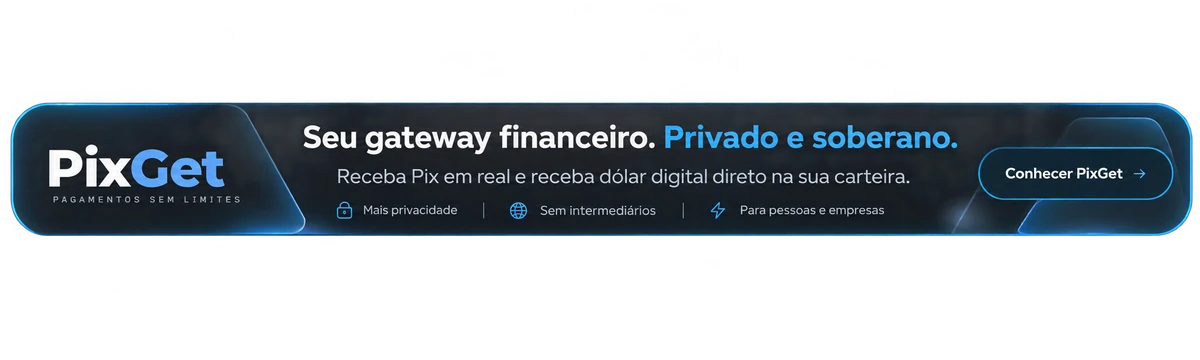
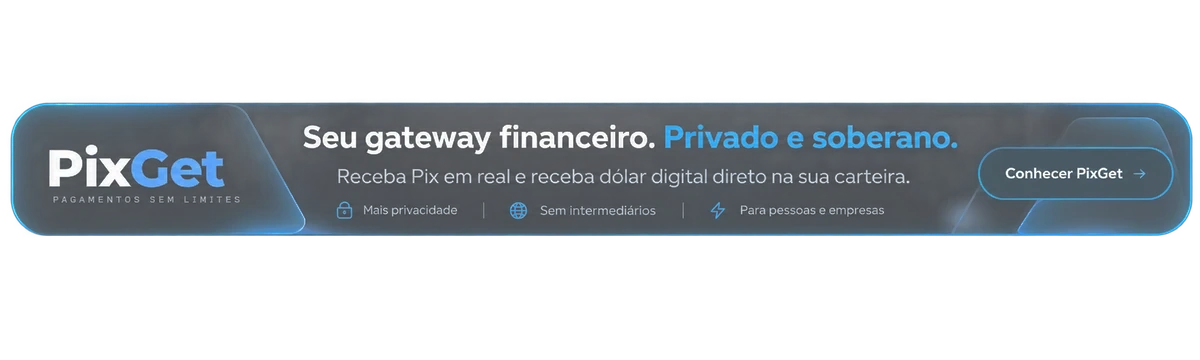
feat(ui): botoes de controle minimalistas em SVG, remove demo, lower-third encostado na base com transparencia fumê

diff --git a/webplayer/design/player.css b/webplayer/design/player.css
@@ -7,6 +7,8 @@
 header.topbar{height:var(--header);flex-shrink:0;display:flex;align-items:center;justify-content:space-between;gap:16px;padding:0 32px;border-bottom:1px solid var(--border);background:#080a09ed;position:sticky;top:0;z-index:50;backdrop-filter:blur(16px)}.brand{display:flex;align-items:center;gap:12px;font-size:23px;letter-spacing:1.2px;font-weight:600;white-space:nowrap}.brand b{font-weight:400;font-size:10px;letter-spacing:2px;color:var(--muted);display:block;line-height:1}.brand img{object-fit:contain}.status-pill{font-size:11px;padding:7px 12px;border:1px solid var(--border);border-radius:30px;color:var(--muted);white-space:nowrap}.status-pill.live{color:var(--green);border-color:#b7ff3c38;background:#b7ff3c08}.status-pill.err{color:var(--danger);border-color:#ff6b6b50}
 main{flex:1;display:flex;min-height:0}.stage{flex:1;min-width:0;padding:32px;display:flex;flex-direction:column;gap:24px}.player-wrap{position:relative;width:100%;aspect-ratio:16/9;background:#000;overflow:hidden;border:1px solid #ffffff1c;border-radius:18px;box-shadow:0 24px 80px #0008}.player-wrap:fullscreen{border:0;border-radius:0;aspect-ratio:auto}video{width:100%;height:100%;display:block;background:#000}.overlay{position:absolute;inset:0;display:flex;align-items:center;justify-content:center;flex-direction:column;gap:14px;padding:24px;text-align:center;background:radial-gradient(ellipse at center,#182210c9,#050607ef 65%)}.overlay.hidden{display:none}.overlay p{max-width:340px;color:var(--muted);font-size:13px}.overlay .big{font:600 28px/1.1 Barlow,sans-serif;color:var(--text)}.spinner{height:48px;width:48px;border:2px solid #b7ff3c1a;border-top-color:var(--green);border-radius:50%;animation:spin 1.8s linear infinite;margin-bottom:8px}@keyframes spin{to{transform:rotate(360deg)}}
 .meta-row{display:flex;justify-content:space-between;align-items:center;gap:20px;flex-wrap:wrap}.now-playing{min-width:0}.now-playing span{display:block;font-size:12px;color:var(--muted);overflow-wrap:anywhere}#npChannel{font:600 28px/1.2 Barlow,sans-serif;color:var(--text);margin-bottom:6px}.controls-row{display:flex;gap:8px;flex-wrap:wrap}.icon-btn{display:inline-flex;align-items:center;justify-content:center;gap:8px;min-height:44px;border:1px solid var(--border);border-radius:10px;background:#ffffff04;padding:10px 15px;font-size:12px;font-weight:600;color:var(--text)}.icon-btn:hover{background:#b7ff3c0c;border-color:#b7ff3c50;color:var(--green)}
+.icon-only-btn{width:44px;min-width:44px;height:44px;padding:0!important;border-radius:10px;background:#111416;border:1px solid rgba(255,255,255,.1);color:#a2afb8;transition:all .2s ease}
+.icon-only-btn:hover{background:rgba(0,229,255,.1);border-color:rgba(0,229,255,.45);color:#00E5FF;transform:translateY(-1px)}
 aside.sidebar{width:340px;flex-shrink:0;display:flex;flex-direction:column;min-height:0;background:#0b0e0e;border-left:1px solid var(--border);transition:margin-right .25s ease,width .25s ease}
 aside.sidebar.collapsed{margin-right:-340px;display:none}.list-kicker,.login-kicker,.scene-kicker,.scene-foot{font-size:10px;letter-spacing:2px;color:var(--muted)}.side-head h2{font:600 29px/1.2 Barlow,sans-serif;margin:8px 0 22px}.side-search,.cat-select{width:100%;min-height:46px;border:1px solid var(--border);border-radius:10px;padding:11px 13px;background:#131718;color:var(--text);font-size:14px}.side-search::placeholder{color:#939d95}.cat-select{margin-top:10px;font-size:13px}.list{flex:1;overflow-y:auto;padding:10px;overscroll-behavior:contain}.chan{display:flex;align-items:center;gap:13px;padding:12px;min-height:64px;border:1px solid transparent;border-radius:12px;cursor:pointer;color:var(--text);font-size:13px;margin-bottom:3px}.chan:hover{background:#ffffff05}.chan.active{background:#b7ff3c0b;border-color:#b7ff3c35;color:var(--green)}.chan .logo{width:38px;height:38px;object-fit:contain;flex-shrink:0;border-radius:8px;background:#24292a;padding:4px}.chan .name{flex:1;min-width:0;overflow:hidden;text-overflow:ellipsis;white-space:nowrap}.empty-hint{padding:35px 18px;text-align:center;line-height:1.7;color:var(--muted);font-size:13px}
 #loginGate{position:fixed;inset:0;z-index:100;display:grid;grid-template-columns:minmax(0,1.2fr) minmax(390px,1fr);align-items:center;background:var(--bg);overflow-y:auto}#loginGate.hidden{display:none}.login-scene{align-self:stretch;min-height:100svh;display:flex;flex-direction:column;justify-content:space-between;padding:48px 56px;position:relative;isolation:isolate;background:linear-gradient(0deg,#050607 0%,#05060760 50%,#0506079c 100%),url('./stadium.webp') center/cover;border-right:1px solid var(--border)}.scene-copy{padding:100px 0 70px}.scene-copy>span{color:var(--green);font-size:11px;letter-spacing:2px}.scene-copy h2{font:600 clamp(62px,7vw,110px)/.94 Barlow,Impact,sans-serif;letter-spacing:-1px;margin:22px 0 26px}.scene-copy p{max-width:290px;color:#c3cbc2;line-height:1.7}.scene-foot{font-size:9px}.login-card{width:100%;max-width:460px;margin:auto;padding:48px 42px}.login-mark{display:block;object-fit:contain;margin-bottom:35px}.login-kicker{color:var(--green)}.login-card h1{font:600 48px/1.1 Barlow,sans-serif;letter-spacing:-.5px;margin:12px 0}.login-card .sub{font-size:12px;color:var(--muted);margin-bottom:36px}.field{margin-bottom:20px}.field label{font-size:12px;color:#c3cbc2}.field input{width:100%;min-height:54px;margin-top:8px;border:1px solid #ffffff22;border-radius:10px;background:#121617;color:var(--text);padding:14px 16px;font-size:16px}.field input::placeholder{color:#717c74}.field input:focus{border-color:#b7ff3c88}
@@ -20,12 +22,12 @@ aside.sidebar.collapsed{margin-right:-340px;display:none}.list-kicker,.login-kic
 /* ================= FORMATOS DE ANÚNCIOS (NEXUS ADS) ================= */
 
 /* Formato 1: Lower-Third Flutuante Transitório */
-.ad-lower-third{position:absolute;bottom:24px;left:50%;transform:translateX(-50%) translateY(40px);opacity:0;pointer-events:none;z-index:25;width:92%;max-width:820px;background:transparent;border:none;padding:0;display:flex;align-items:center;justify-content:center;transition:transform .45s cubic-bezier(.16,1,.3,1),opacity .4s ease}
+.ad-lower-third{position:absolute;bottom:8px;left:50%;transform:translateX(-50%) translateY(25px);opacity:0;pointer-events:none;z-index:25;width:88%;max-width:680px;background:transparent;border:none;padding:0;display:flex;align-items:center;justify-content:center;backdrop-filter:blur(8px);-webkit-backdrop-filter:blur(8px);transition:transform .4s cubic-bezier(.16,1,.3,1),opacity .4s ease}
 .ad-lower-third.active{transform:translateX(-50%) translateY(0);opacity:1;pointer-events:auto}
 .ad-lt-img-link{width:100%;display:block;text-decoration:none}
-.ad-lt-img-link img{width:100%;height:auto;display:block;border-radius:14px;filter:drop-shadow(0 14px 35px rgba(0,0,0,.85));transition:transform .15s}
+.ad-lt-img-link img{width:100%;height:auto;display:block;border-radius:12px;filter:drop-shadow(0 8px 24px rgba(0,0,0,.75));transition:transform .15s}
 .ad-lt-img-link:hover img{transform:scale(1.01)}
-.ad-lt-close{position:absolute;top:-8px;right:-8px;background:rgba(8,12,16,.92);border:1px solid rgba(0,229,255,.4);color:#fff;border-radius:50%;width:26px;height:26px;display:flex;align-items:center;justify-content:center;cursor:pointer;font-size:11px;z-index:26;transition:all .2s}
+.ad-lt-close{position:absolute;top:-6px;right:-6px;background:rgba(8,12,16,.9);border:1px solid rgba(0,229,255,.4);color:#fff;border-radius:50%;width:22px;height:22px;display:flex;align-items:center;justify-content:center;cursor:pointer;font-size:10px;z-index:26;transition:all .2s}
 .ad-lt-close:hover{background:#ff4444;border-color:#ff4444;color:#fff}
 
 /* Formato 2: Corner Badge de Patrocínio Transitório (Canto Superior Direito) */

diff --git a/webplayer/index.html b/webplayer/index.html
@@ -6,7 +6,7 @@
 <meta name="theme-color" content="#050607">
 <title>Nexus PlayTV • WebPlayer</title>
 <link rel="icon" href="/favicon.png" type="image/png">
-<link rel="stylesheet" href="./design/player.css?v=3.0">
+<link rel="stylesheet" href="./design/player.css?v=3.1">
 </head>
 <body>
 
@@ -81,9 +81,17 @@
         <span id="npUser"></span>
       </div>
       <div class="controls-row">
-        <button class="icon-btn" id="btnTestAd" title="Testar exibição do Banner Lower-Third">★ Demo Banner</button>
-        <button class="icon-btn" id="btnFullscreen">⛶ Tela Cheia</button>
-        <button class="icon-btn" id="btnReload">⟲ Recarregar</button>
+        <button class="icon-btn icon-only-btn" id="btnReload" title="Recarregar canal" aria-label="Recarregar canal">
+          <svg width="18" height="18" viewBox="0 0 24 24" fill="none" stroke="currentColor" stroke-width="2.2" stroke-linecap="round" stroke-linejoin="round">
+            <polyline points="23 4 23 10 17 10"></polyline>
+            <path d="M20.49 15a9 9 0 1 1-2.12-9.36L23 10"></path>
+          </svg>
+        </button>
+        <button class="icon-btn icon-only-btn" id="btnFullscreen" title="Tela cheia" aria-label="Alternar tela cheia">
+          <svg width="18" height="18" viewBox="0 0 24 24" fill="none" stroke="currentColor" stroke-width="2.2" stroke-linecap="round" stroke-linejoin="round">
+            <path d="M8 3H5a2 2 0 0 0-2 2v3m18 0V5a2 2 0 0 0-2-2h-3m0 18h3a2 2 0 0 0 2-2v-3M3 16v3a2 2 0 0 0 2 2h3"></path>
+          </svg>
+        </button>
       </div>
     </div>
   </section>
@@ -119,7 +127,7 @@
 
 <script src="https://cdn.jsdelivr.net/npm/mpegts.js@1.7.3/dist/mpegts.min.js"></script>
 <script src="https://cdn.jsdelivr.net/npm/hls.js@1.5.15/dist/hls.min.js"></script>
-<script src="/app.js?v=3.0"></script>
-<script src="./design/motion.js?v=3.0"></script>
+<script src="/app.js?v=3.1"></script>
+<script src="./design/motion.js?v=3.1"></script>
 </body>
 </html>
